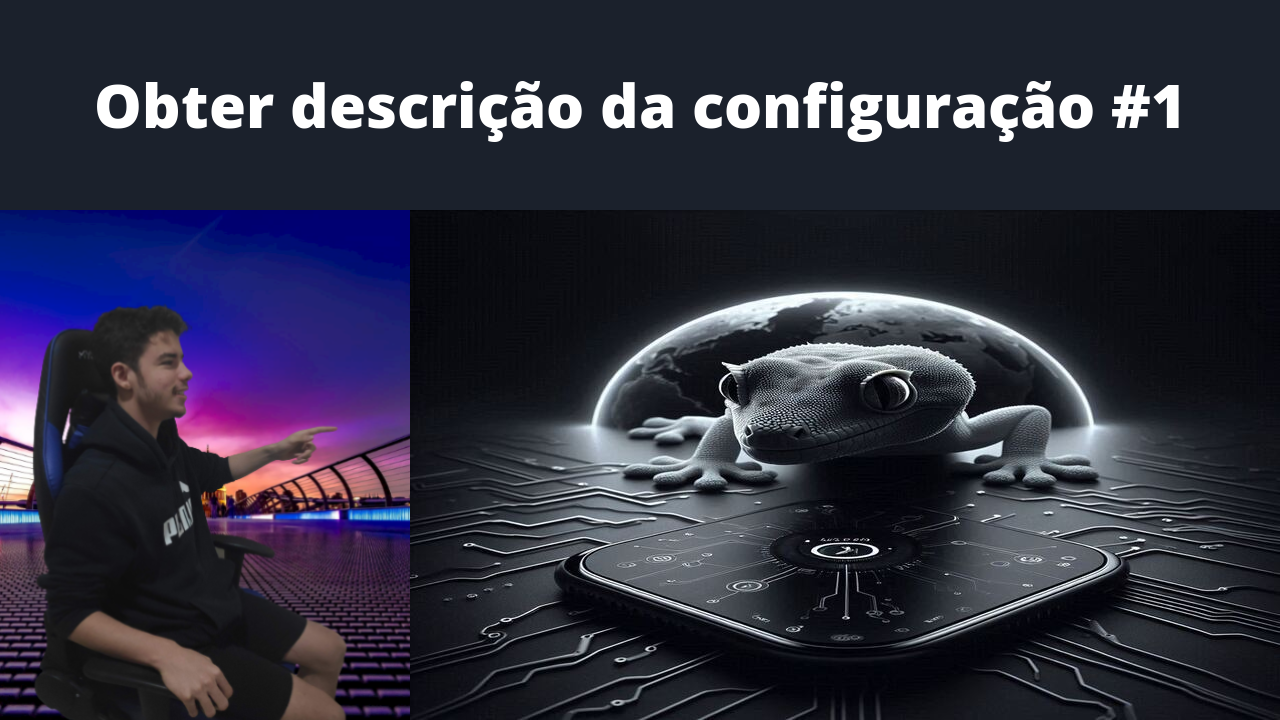
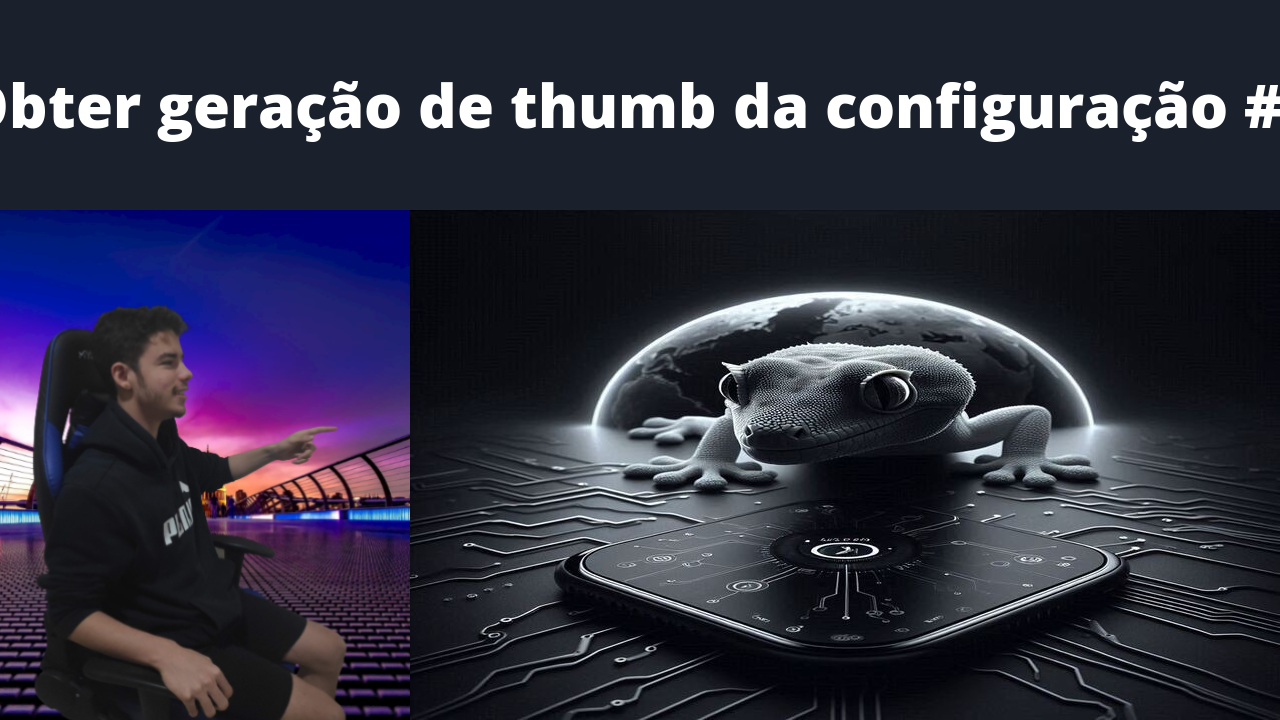
chore: add title debug: -r on jq to check fill

Changed region(s): [[0.0, 0.0917, 1.0, 0.2139]]

diff --git a/out/titles/thumbGen.md b/out/titles/thumbGen.md
@@ -236,7 +236,7 @@
 [video](https://youtu.be/h7D4TRvybCQ)
 ## Criação do arquivo de configuração #119
 [video](https://youtu.be/32z1ZJDUMgs)
-
-
+## Obter geração de thumb da configuração #120
+[video](https://youtu.be/gjD0v3jb8_Q)
 ## Obter descrição da configuração #121
 [video](https://youtu.be/GMmzJ17Ib6g)
